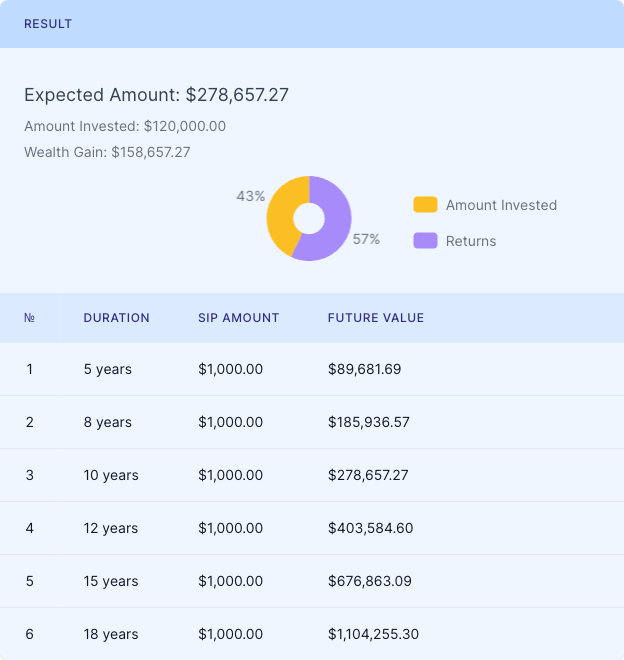
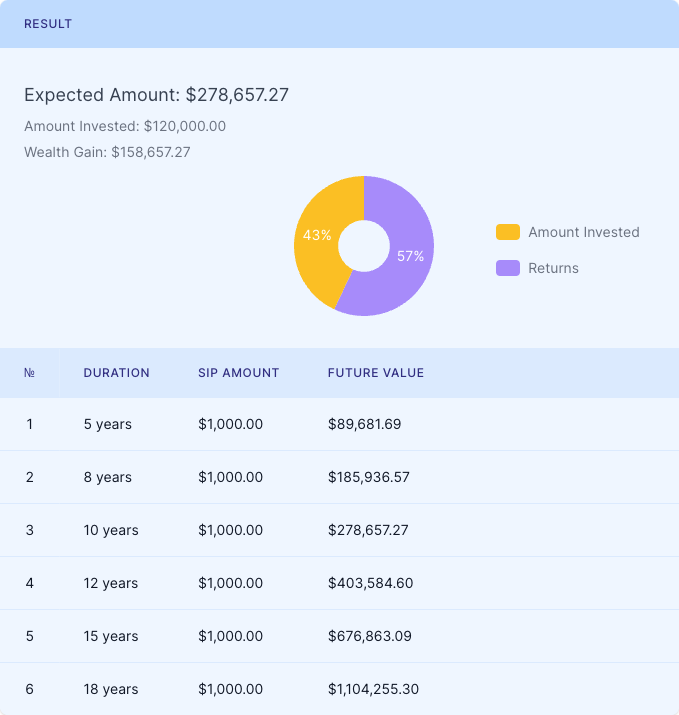
calculator changes commit

diff --git a/assets/js/chart.js b/assets/js/chart.js
@@ -87,17 +87,12 @@ import("./assets/js/lib/chartjs/chart.js").then((e) => {
 			data.datasets[0].data.forEach((datapoint, index) => {
 				const { x, y } = chart.getDatasetMeta(0).data[index].tooltipPosition();
 
-				let textXPosition = x >= 77 ? 'left' : 'right';
-
-				let xLine = x >= 77 ? x + 15 : x - 15;
-				let yLine = y >= 77 ? y + 15 : y - 15;
-
+				ctx.textAlign = 'center';
 				ctx.font = '14px Inter';
-				ctx.textAlign = textXPosition;
-				ctx.fillStyle = colors[theme].textColor;
+				ctx.fillStyle = '#fff';
 				ctx.textBaseline = 'middle';
-
-				ctx.fillText(`${datapoint}%`, xLine, yLine);
+				let toolTipText = datapoint != '0' ? datapoint + '%' : '';
+				ctx.fillText(toolTipText, x, y);
 			});
 		},
 	};
@@ -127,17 +122,12 @@ import("./assets/js/lib/chartjs/chart.js").then((e) => {
 				data.datasets[0].data.forEach((datapoint, index) => {
 					const { x, y } = chart.getDatasetMeta(0).data[index].tooltipPosition();
 
-					let textXPosition = x >= 77 ? 'left' : 'right';
-
-					let xLine = x >= 77 ? x + 15 : x - 15;
-					let yLine = y >= 77 ? y + 15 : y - 15;
-
+					ctx.textAlign = 'center';
 					ctx.font = '14px Inter';
-					ctx.textAlign = textXPosition;
-					ctx.fillStyle = colors[theme].textColor;
+					ctx.fillStyle = '#fff';
 					ctx.textBaseline = 'middle';
-
-					ctx.fillText(`${datapoint}%`, xLine, yLine);
+					let toolTipText = datapoint != '0' ? datapoint + '%' : '';
+					ctx.fillText(toolTipText, x, y);
 				});
 			},
 		};
@@ -151,7 +141,7 @@ import("./assets/js/lib/chartjs/chart.js").then((e) => {
 			plugins: [customDataLabels],
 		});
 
-		donutSmall.data.datasets[0].backgroundColor = [colors[theme].purple, colors[theme].yellow, colors[theme].sky];
+		donutSmall.data.datasets[0].backgroundColor = [colors[theme].purple, colors[theme].yellow];
 		donutSmall.update()
 	}
 

diff --git a/assets/js/all-calculators.js b/assets/js/all-calculators.js
@@ -517,7 +517,7 @@ var allCalculators = [
     },
     {
         "title": "Work Hours Calculator",
-        "description": "Work hours calculator helps employees accurately calculate the number of hours worked each week with settings to account for breaks, hourly rounding, and military time. ",
+        "description": "Work hours calculator helps employees accurately calculate the number of hours worked each week with settings to account for breaks, hourly rounding, and military time.",
         "uri": "/work-hours-calculator/",
         "image": "../images/icon-96.png"
     },
@@ -528,7 +528,7 @@ var allCalculators = [
         "image": "../images/icon-96.png"
     },
     {
-        "title": "Fraction to percent calculator",
+        "title": "Fraction to Percent Calculator",
         "description": "Fraction to percent calculator converts proper and improper fractions to percentages. Calculator is using fraction-decimal-percent algorithm.",
         "uri": "/fraction-to-percent-calculator/",
         "image": "../images/icon-96.png"
@@ -723,6 +723,12 @@ var allCalculators = [
         "title": "Margin Calculator",
         "description": "Free margin calculator using the margin formula ((R - C) / R) × 100 to help businesses quickly calculate both margin and markup percentages based on cost and sale price.",
         "uri": "/margin-calculator/",
+        "image": "../images/icon-96.png"
+    },
+    {
+        "title": "Pace Calculator",
+        "description": "This free pace calculator computes pace, distance and time by setting values of two variables. You can use it for training purposes.",
+        "uri": "/pace-calculator/",
         "image": "../images/icon-96.png"
     },
     {

diff --git a/index.html b/index.html
@@ -110,7 +110,13 @@
         	</div>
         	<div class="col" id="error-list">
         	</div>
-        </div>        <span id="calculator_result"><div class="calculator-result col">
+        </div>        <span id="calculator_result"><style>
+    #chartDonutSmall {
+        max-width: 200px;
+        max-height: 200px;
+    }
+</style>
+<div class="calculator-result col">
 	<p class="table-cell table-cell--table-dark table-cell--only-title">Result</p>
 	<div class="table-cell table-cell--age table-cell--only row">
 		<div class="col chart__text">
@@ -119,8 +125,8 @@
 			<p class="result-text result-text--small-loan" id="gain">Wealth Gain: $158,657.27</p>
 		</div>
 		<div class="chart-wrapper chart-wrapper--donut chart-wrapper--donut-row">
-			<canvas id="chartDonutSmall" class="chart chart--donut chart--donut-small" width="145px"
-					height="145px"></canvas>
+			<canvas id="chartDonutSmall" class="chart chart--donut chart--donut-small" width="200px"
+					height="200px"></canvas>
 			<div class="chart__donut-legend chart__donut-legend--col">
 				<div class="chart__donut-legend-item">
 					<div class="result-chart result-chart--yellow"></div>
